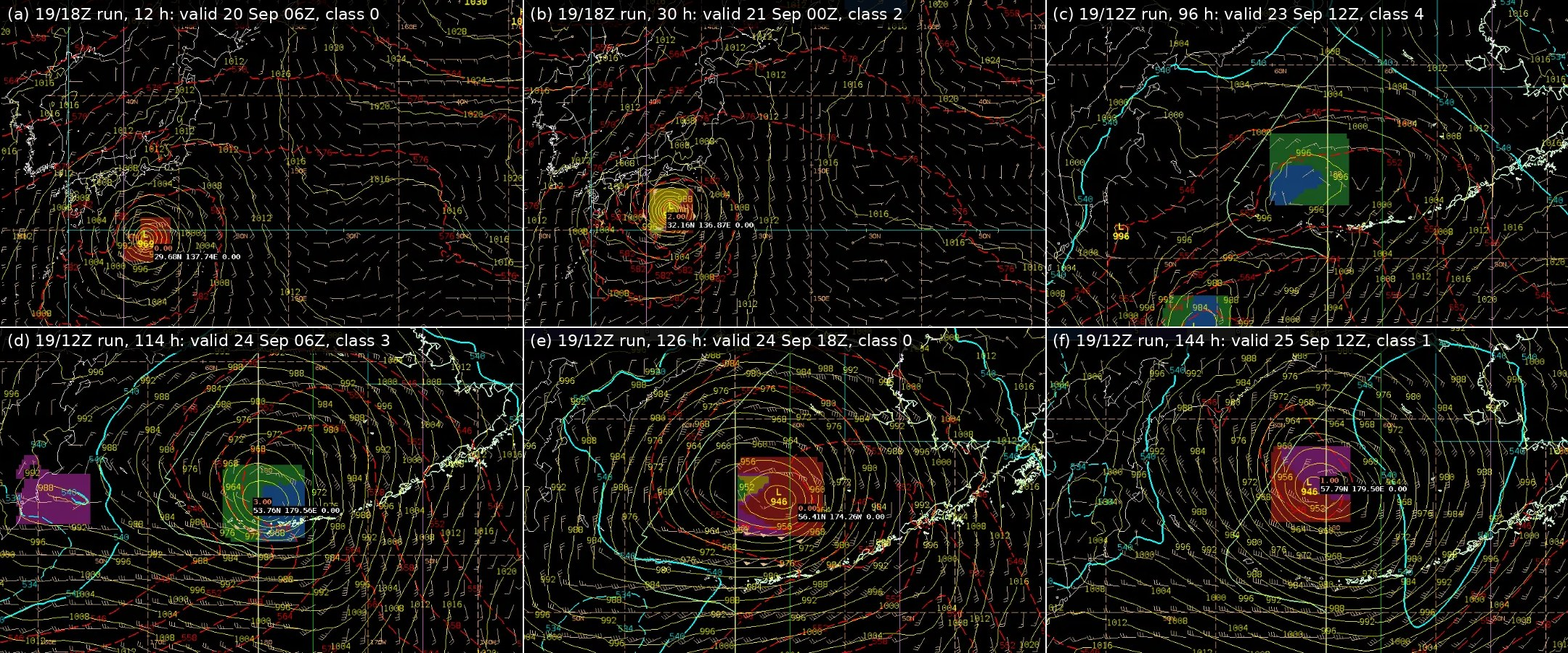
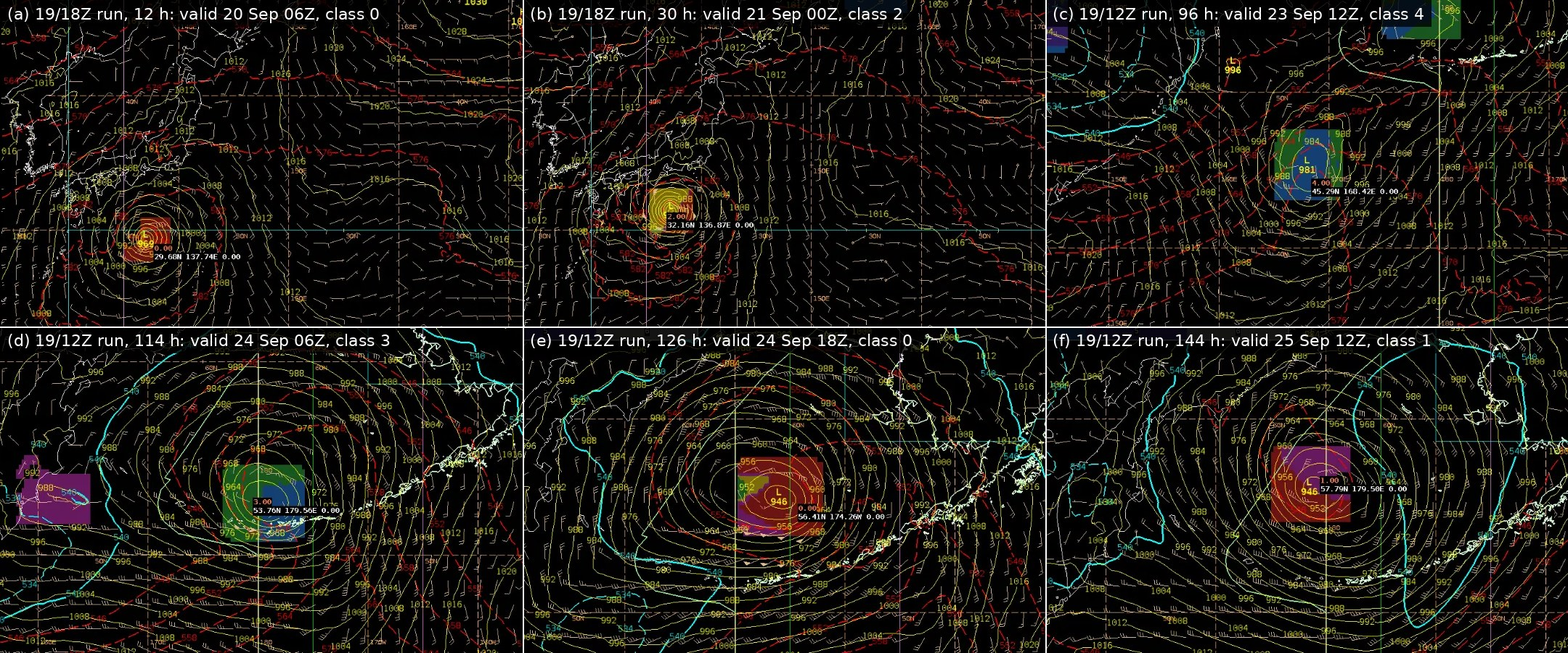
Figure 9 panel (c): center on the 981 hPa typhoon
The 96 h crop was centered on a neighboring low; it now shows the
tracked storm at 45.3N 168.4E with its class 4 readout.

Claude-Session: https://claude.ai/code/session_019q8NWWmgCfoxLvyzmCH4VN

Changed region(s): [[0.6514, 0.0, 1.0, 0.4978]]

diff --git a/docs/cps/figures/make_cave_figures.py b/docs/cps/figures/make_cave_figures.py
@@ -30,7 +30,7 @@ MAP_Y0, MAP_Y1 = 118, 1045
 LIFECYCLE = [
     ("img14.png", 406, 922, "(a) 19/18Z run, 12 h: valid 20 Sep 06Z, class 0"),
     ("img10.png", 406, 875, "(b) 19/18Z run, 30 h: valid 21 Sep 00Z, class 2"),
-    ("img08.png", 1029, 381, "(c) 19/12Z run, 96 h: valid 23 Sep 12Z, class 4"),
+    ("img08.png", 875, 610, "(c) 19/12Z run, 96 h: valid 23 Sep 12Z, class 4"),
     ("img09.png", 1062, 422, "(d) 19/12Z run, 114 h: valid 24 Sep 06Z, class 3"),
     ("img07.png", 1125, 328, "(e) 19/12Z run, 126 h: valid 24 Sep 18Z, class 0"),
     ("img06.png", 1031, 328, "(f) 19/12Z run, 144 h: valid 25 Sep 12Z, class 1"),
